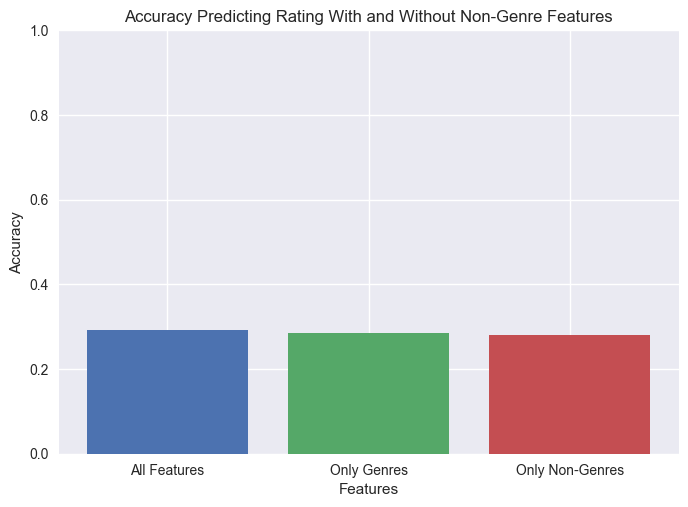
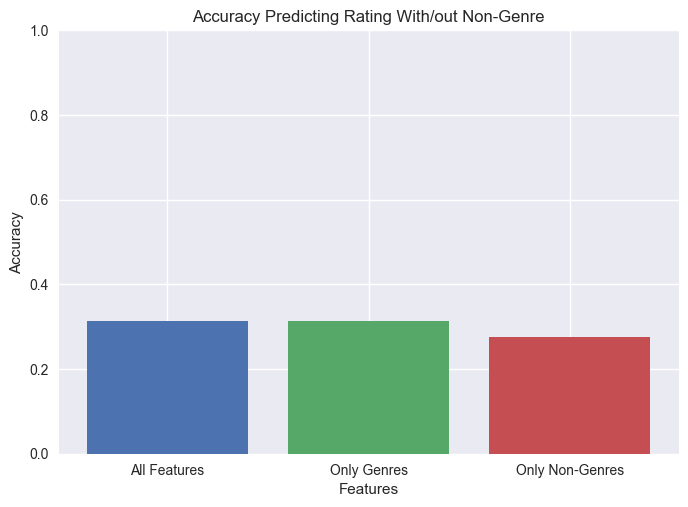
Add special scatterplot to fill some space and improve rendering

diff --git a/visualize.py b/visualize.py
@@ -10,6 +10,10 @@ import genre
 
 plt.style.use("seaborn")
 
+MEGA_FIGURE = True
+FIX_LIMITS = True
+IMAGE_DPI = 100
+IMAGE_SIZE = (4, 3)
 
 csv_file = open("data/dataset.csv", "r")
 data = pandas.read_csv("data/dataset.csv")
@@ -27,6 +31,7 @@ genre_only = sample_10k.drop(
         "numVotes",
         "directorsExperience",
         "actorsExperience",
+        "producersExperience",
         # We need this one.
         #  "averageRating",
     ],
@@ -60,118 +65,225 @@ genre_2 = genre_5.drop(["isTalkShow", "isShort", "isDocumentary"], 1)
 genre_none = genre_2.drop(["isDrama", "isComedy"], 1)
 
 
-# Plots of predictor strength for rating against each feature
-plt.title("Rating Prediction Strength by Feature")
-plt.xlabel("Feature")
-plt.ylabel("Prediction Strength")
+def plot_rating_predictor_strength():
+    # Plots of predictor strength for rating against each feature
+    plt.title("Rating Prediction Strength by Feature")
+    plt.xlabel("Feature")
+    plt.ylabel("Prediction Strength")
 
-result = rating.train_rating(sample_10k)["strengths"]
+    result = rating.train_rating(sample_10k)["strengths"]
 
-for key, value in result.items():
-    plt.bar(key, value)
+    for key, value in result.items():
+        plt.bar(key, value)
 
-axes = plt.gca()
-axes.set_ylim([0, 1])
+    if FIX_LIMITS:
+        axes = plt.gca()
+        axes.set_ylim([0, 1])
 
-plt.savefig("visuals/rating_predictor_strength.png", bbox_inches="tight")
-plt.clf()
-
-
-
-# Plots of predictor strength for genre against each feature
-plt.title("Genre Prediction Strength by Feature")
-plt.xlabel("Feature")
-plt.ylabel("Prediction Strength")
-
-result = genre.train_genres(sample_10k)["strengths"]
-
-for key, value in result.items():
-    plt.bar(key, value)
-
-axes = plt.gca()
-axes.set_ylim([0, 1])
-
-plt.savefig("visuals/genre_predictor_strength.png", bbox_inches="tight")
-plt.clf()
+    if not MEGA_FIGURE:
+        plt.savefig(
+            "visuals/rating_predictor_strength.png",
+            bbox_inches="tight",
+            figsize=IMAGE_SIZE,
+            dpi=IMAGE_DPI,
+        )
 
 
+def plot_genre_predictor_strength():
+    # Plots of predictor strength for genre against each feature
+    plt.title("Genre Prediction Strength by Feature")
+    plt.xlabel("Feature")
+    plt.ylabel("Prediction Strength")
 
-# Plots of accuracy predicting rating with all (27), 10, 5, and 2 genres
-plt.title("Accuracy Predicting Rating by Quantity of Genres")
-plt.xlabel("Quantity of Genres")
-plt.ylabel("Accuracy")
-plt.bar("27", rating.train_rating(sample_10k)["accuracy"])
-plt.bar("10", rating.train_rating(genre_10)["accuracy"])
-plt.bar("5", rating.train_rating(genre_5)["accuracy"])
-plt.bar("2", rating.train_rating(genre_2)["accuracy"])
+    result = genre.train_genres(sample_10k)["strengths"]
 
-axes = plt.gca()
-axes.set_ylim([0, 1])
+    for key, value in result.items():
+        plt.bar(key, value)
 
-plt.savefig("visuals/rating_accuracy_quantity_genre.png", bbox_inches="tight")
-plt.clf()
+    if FIX_LIMITS:
+        axes = plt.gca()
+        axes.set_ylim([0, 1])
 
-
-
-# Plots of accuracy predicting rating with 10k, 5k, and 2k samples
-plt.title("Accuracy Predicting Rating by Sample Size")
-plt.xlabel("Sample Size")
-plt.ylabel("Accuracy")
-plt.bar("10k", rating.train_rating(sample_10k)["accuracy"])
-plt.bar("5k", rating.train_rating(sample_5k)["accuracy"])
-plt.bar("2k", rating.train_rating(sample_2k)["accuracy"])
-
-axes = plt.gca()
-axes.set_ylim([0, 1])
-
-plt.savefig("visuals/rating_accuracy_sample_size.png", bbox_inches="tight")
-plt.clf()
+    if not MEGA_FIGURE:
+        plt.savefig(
+            "visuals/genre_predictor_strength.png",
+            bbox_inches="tight",
+            figsize=IMAGE_SIZE,
+            dpi=IMAGE_DPI,
+        )
 
 
+def plot_rating_accuracy_quantity_genre():
+    # Plots of accuracy predicting rating with all (27), 10, 5, and 2 genres
+    plt.title("Accuracy Predicting Rating by Quantity of Genres")
+    plt.xlabel("Quantity of Genres")
+    plt.ylabel("Accuracy")
+    plt.bar("27", rating.train_rating(sample_10k)["accuracy"])
+    plt.bar("10", rating.train_rating(genre_10)["accuracy"])
+    plt.bar("5", rating.train_rating(genre_5)["accuracy"])
+    plt.bar("2", rating.train_rating(genre_2)["accuracy"])
 
-# Plots of accuracy predicting rating with and without non-genre features
-plt.title("Accuracy Predicting Rating With and Without Non-Genre Features")
-plt.xlabel("Features")
-plt.ylabel("Accuracy")
-plt.bar("All Features", rating.train_rating(sample_10k)["accuracy"])
-plt.bar("Only Genres", rating.train_rating(genre_only)["accuracy"])
-plt.bar("Only Non-Genres", rating.train_rating(genre_none)["accuracy"])
+    if FIX_LIMITS:
+        axes = plt.gca()
+        axes.set_ylim([0, 1])
 
-axes = plt.gca()
-axes.set_ylim([0, 1])
-
-plt.savefig("visuals/rating_accuracy_wwo_genre.png", bbox_inches="tight")
-plt.clf()
-
-
-
-# Plots of accuracy predicting genre with 10k, 5k, and 2k samples
-plt.title("Accuracy Predicting Genre by Sample Size")
-plt.xlabel("Sample Size")
-plt.ylabel("Accuracy")
-plt.bar("10k", genre.train_genres(sample_10k)["accuracy"])
-plt.bar("5k", genre.train_genres(sample_5k)["accuracy"])
-plt.bar("2k", genre.train_genres(sample_2k)["accuracy"])
-
-axes = plt.gca()
-axes.set_ylim([0, 1])
-
-plt.savefig("visuals/genre_accuracy_sample_size.png", bbox_inches="tight")
-plt.clf()
+    if not MEGA_FIGURE:
+        plt.savefig(
+            "visuals/rating_accuracy_quantity_genre.png",
+            bbox_inches="tight",
+            figsize=IMAGE_SIZE,
+            dpi=IMAGE_DPI,
+        )
 
 
+def plot_rating_accuracy_sample_size():
+    # Plots of accuracy predicting rating with 10k, 5k, and 2k samples
+    plt.title("Accuracy Predicting Rating by Sample Size")
+    plt.xlabel("Sample Size")
+    plt.ylabel("Accuracy")
+    plt.bar("10k", rating.train_rating(sample_10k)["accuracy"])
+    plt.bar("5k", rating.train_rating(sample_5k)["accuracy"])
+    plt.bar("2k", rating.train_rating(sample_2k)["accuracy"])
 
-# Plots of accuracy predicting genre with all (27), 10, 5, and 2 genres
-plt.title("Accuracy Predicting Genre by Quantity of Genres")
-plt.xlabel("Quantity of Genres")
-plt.ylabel("Accuracy")
-plt.bar("27", genre.train_genres(sample_10k)["accuracy"])
-plt.bar("10", genre.train_genres(genre_10)["accuracy"])
-plt.bar("5", genre.train_genres(genre_5)["accuracy"])
-plt.bar("2", genre.train_genres(genre_2)["accuracy"])
+    if FIX_LIMITS:
+        axes = plt.gca()
+        axes.set_ylim([0, 1])
 
-axes = plt.gca()
-axes.set_ylim([0, 1])
+    if not MEGA_FIGURE:
+        plt.savefig(
+            "visuals/rating_accuracy_sample_size.png",
+            bbox_inches="tight",
+            figsize=IMAGE_SIZE,
+            dpi=IMAGE_DPI,
+        )
 
-plt.savefig("visuals/genre_accuracy_quantity_genre.png", bbox_inches="tight")
-plt.clf()
+
+def plot_rating_accuracy_wwo_genre():
+    # Plots of accuracy predicting rating with and without non-genre features
+    plt.title("Accuracy Predicting Rating With/out Non-Genre")
+    plt.xlabel("Features")
+    plt.ylabel("Accuracy")
+    plt.bar("All Features", rating.train_rating(sample_10k)["accuracy"])
+    plt.bar("Only Genres", rating.train_rating(genre_only)["accuracy"])
+    plt.bar("Only Non-Genres", rating.train_rating(genre_none)["accuracy"])
+
+    if FIX_LIMITS:
+        axes = plt.gca()
+        axes.set_ylim([0, 1])
+
+    if not MEGA_FIGURE:
+        plt.savefig(
+            "visuals/rating_accuracy_wwo_genre.png",
+            bbox_inches="tight",
+            figsize=IMAGE_SIZE,
+            dpi=IMAGE_DPI,
+        )
+
+
+def plot_genre_accuracy_sample_size():
+    # Plots of accuracy predicting genre with 10k, 5k, and 2k samples
+    plt.title("Accuracy Predicting Genre by Sample Size")
+    plt.xlabel("Sample Size")
+    plt.ylabel("Accuracy")
+    plt.bar("10k", genre.train_genres(sample_10k)["accuracy"])
+    plt.bar("5k", genre.train_genres(sample_5k)["accuracy"])
+    plt.bar("2k", genre.train_genres(sample_2k)["accuracy"])
+
+    if FIX_LIMITS:
+        axes = plt.gca()
+        axes.set_ylim([0, 1])
+
+    if not MEGA_FIGURE:
+        plt.savefig(
+            "visuals/genre_accuracy_sample_size.png",
+            bbox_inches="tight",
+            figsize=IMAGE_SIZE,
+            dpi=IMAGE_DPI,
+        )
+
+
+def plot_genre_accuracy_quantity_genre():
+    # Plots of accuracy predicting genre with all (27), 10, 5, and 2 genres
+    plt.title("Accuracy Predicting Genre by Quantity of Genres")
+    plt.xlabel("Quantity of Genres")
+    plt.ylabel("Accuracy")
+    plt.bar("27", genre.train_genres(sample_10k)["accuracy"])
+    plt.bar("10", genre.train_genres(genre_10)["accuracy"])
+    plt.bar("5", genre.train_genres(genre_5)["accuracy"])
+    plt.bar("2", genre.train_genres(genre_2)["accuracy"])
+
+    if FIX_LIMITS:
+        axes = plt.gca()
+        axes.set_ylim([0, 1])
+
+    if not MEGA_FIGURE:
+        plt.savefig(
+            "visuals/genre_accuracy_quantity_genre.png",
+            bbox_inches="tight",
+            figsize=IMAGE_SIZE,
+            dpi=IMAGE_DPI,
+        )
+
+
+def plot_rating_numvotes():
+    plt.title("Rating vs. Number of Votes")
+    plt.xlabel("Rating")
+    plt.ylabel("Number of Votes")
+    scatter_data = {
+        "rating": sample_10k["averageRating"].tolist(),
+        "votes": sample_10k["numVotes"].tolist(),
+        "actors": sample_10k["actorsExperience"].tolist(),
+        "size": sample_10k["actorsExperience"].tolist(),
+    }
+
+    actor_sum = max(scatter_data["size"])
+    scatter_data["size"] = [float(i) / actor_sum for i in scatter_data["size"]]
+    scatter_data["size"] = [x * 700 for x in scatter_data["size"]]
+
+    plt.scatter(
+        "rating", "votes", s="size", c="actors", cmap="viridis", data=scatter_data
+    )
+    cbar = plt.colorbar()
+    cbar.set_label("Actor Experience")
+
+    if FIX_LIMITS:
+        axes = plt.gca()
+        axes.set_xlim([3, 9])
+        axes.set_ylim([-1000, 60000])
+
+    if not MEGA_FIGURE:
+        plt.savefig(
+            "visuals/rating_votes.png",
+            bbox_inches="tight",
+            figsize=IMAGE_SIZE,
+            dpi=IMAGE_DPI,
+        )
+
+
+plots_to_generate = [
+    plot_rating_numvotes,
+    plot_rating_predictor_strength,
+    plot_genre_predictor_strength,
+    plot_rating_accuracy_quantity_genre,
+    plot_rating_accuracy_sample_size,
+    plot_rating_accuracy_wwo_genre,
+    plot_genre_accuracy_sample_size,
+    plot_genre_accuracy_quantity_genre,
+]
+
+if MEGA_FIGURE:
+    i = 1
+    plt.figure(1)
+    for func in plots_to_generate:
+        plt.subplot(2, 4, i)
+        func()
+        i += 1
+    plt.tight_layout()
+    plt.savefig("visuals/all.png", figsize=IMAGE_SIZE, dpi=IMAGE_DPI)
+    plt.show()
+
+plt.figure(2)
+MEGA_FIGURE = False
+for func in plots_to_generate:
+    func()
+    plt.clf()
